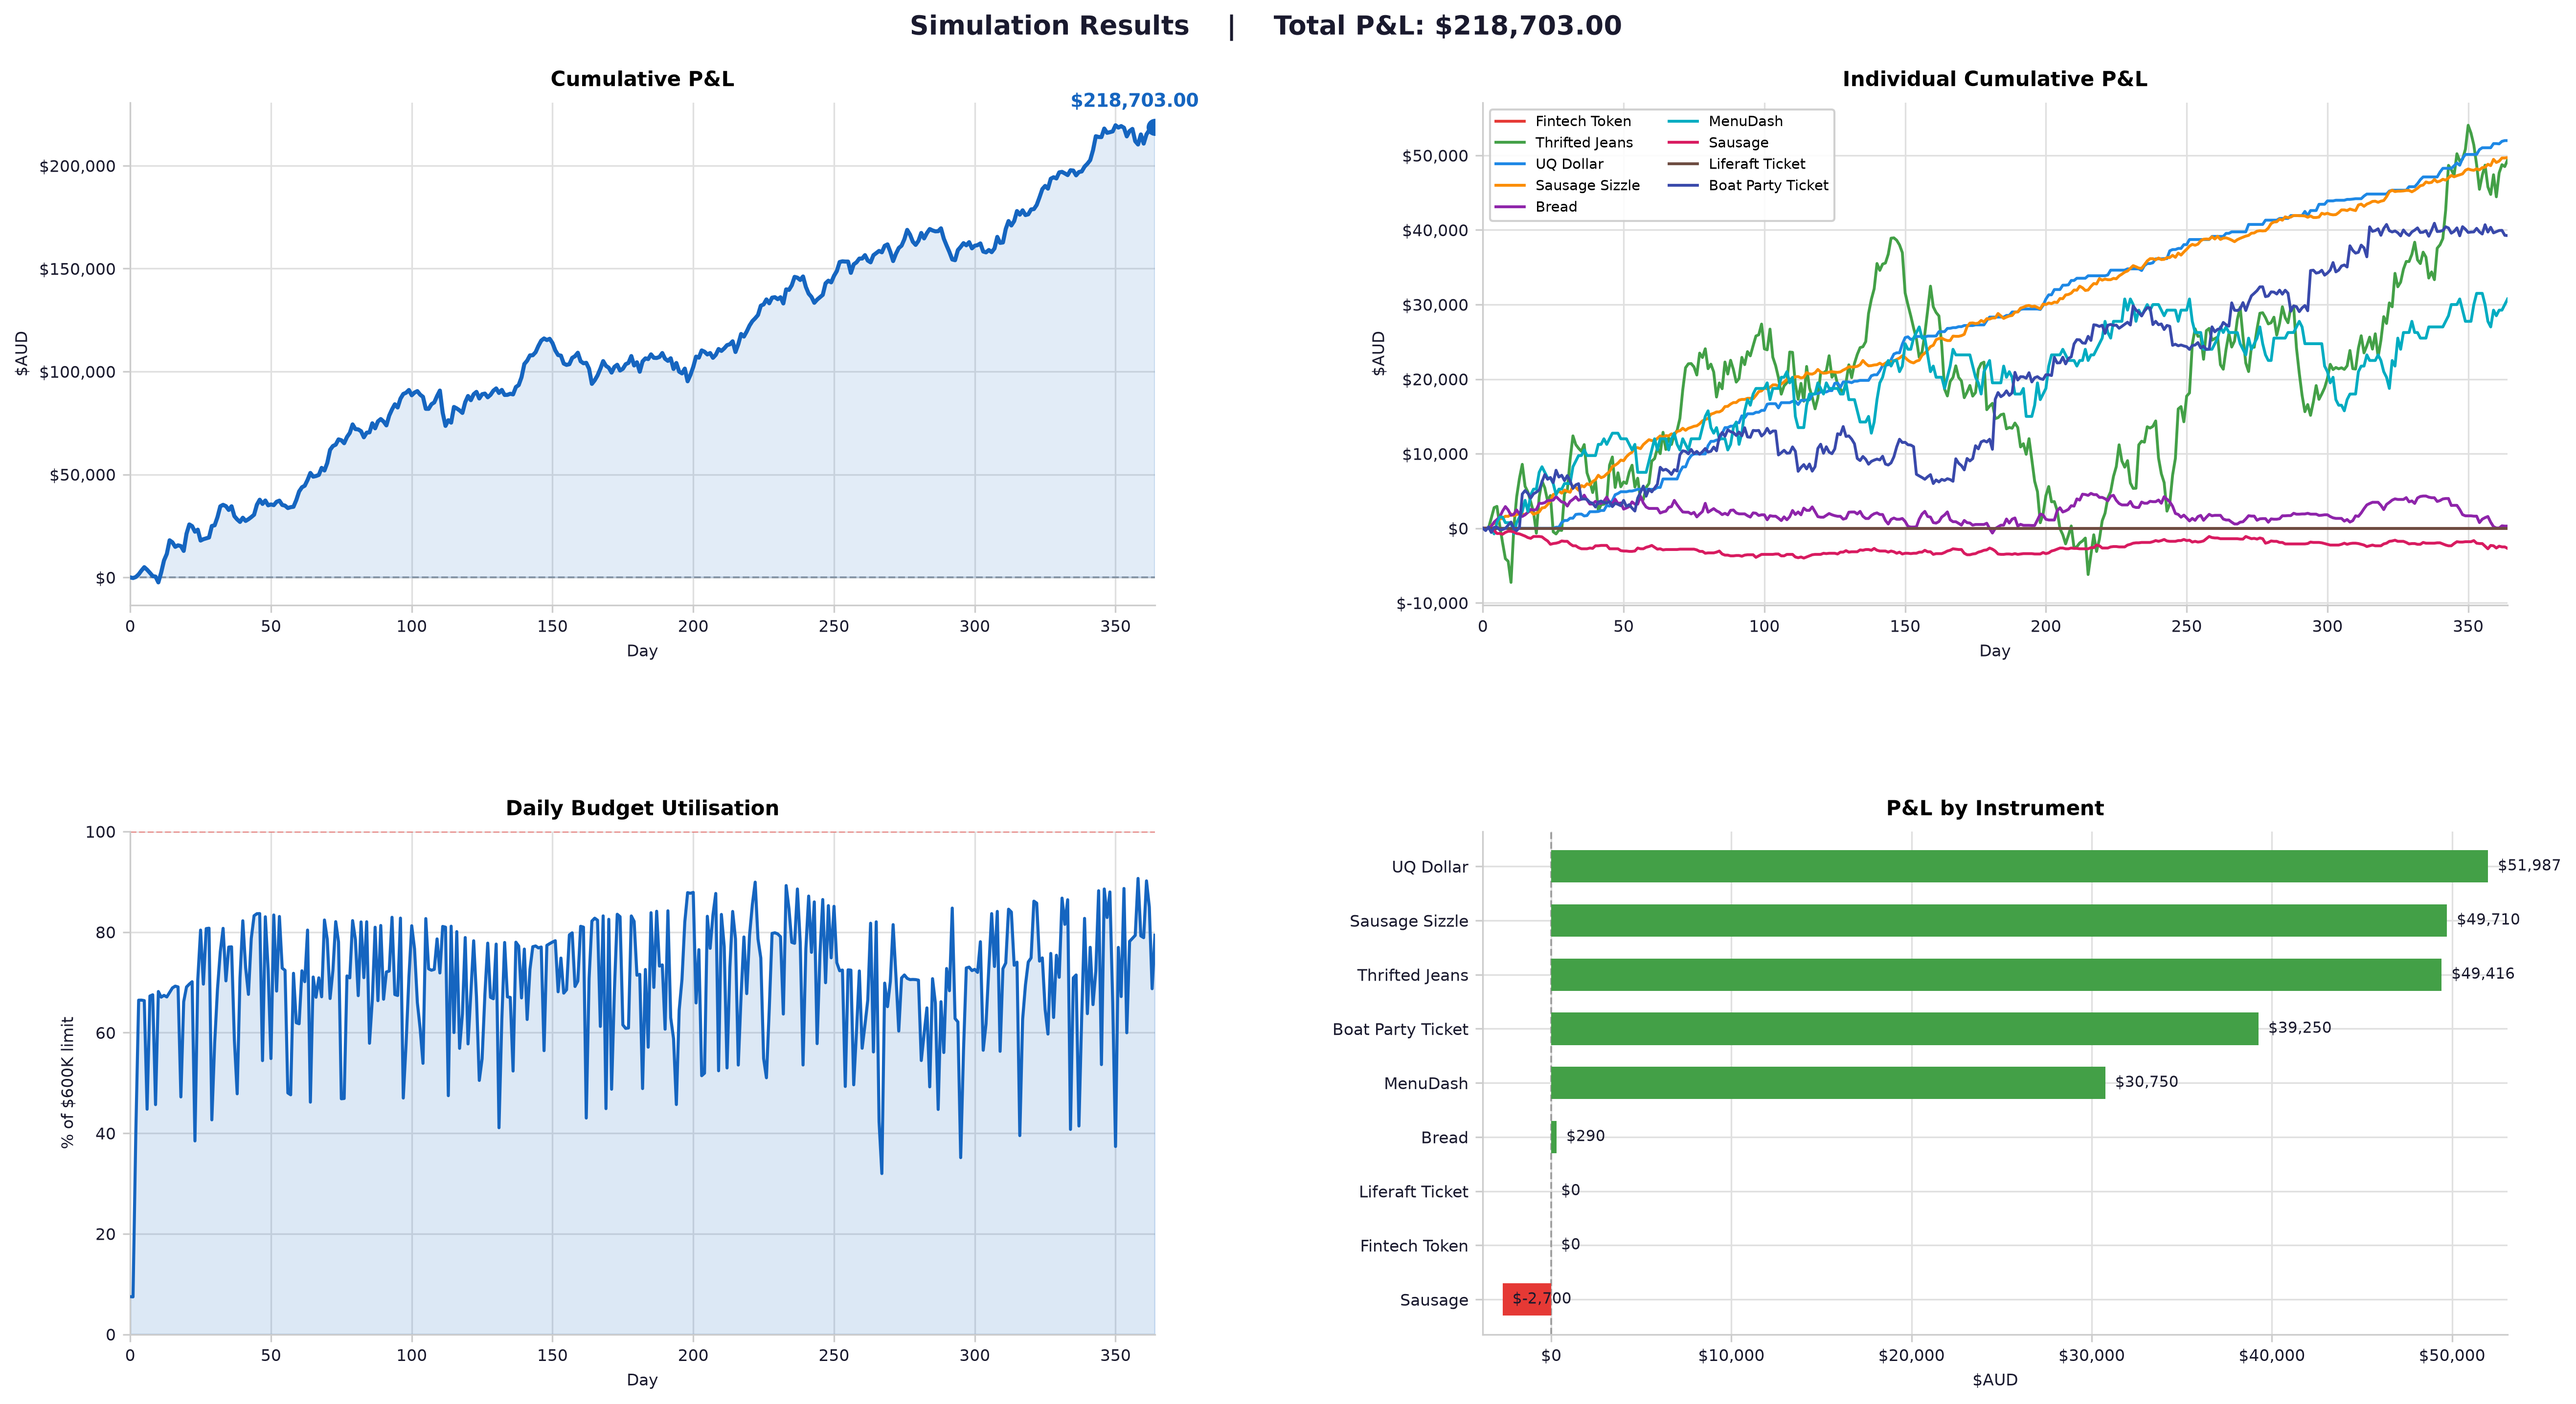
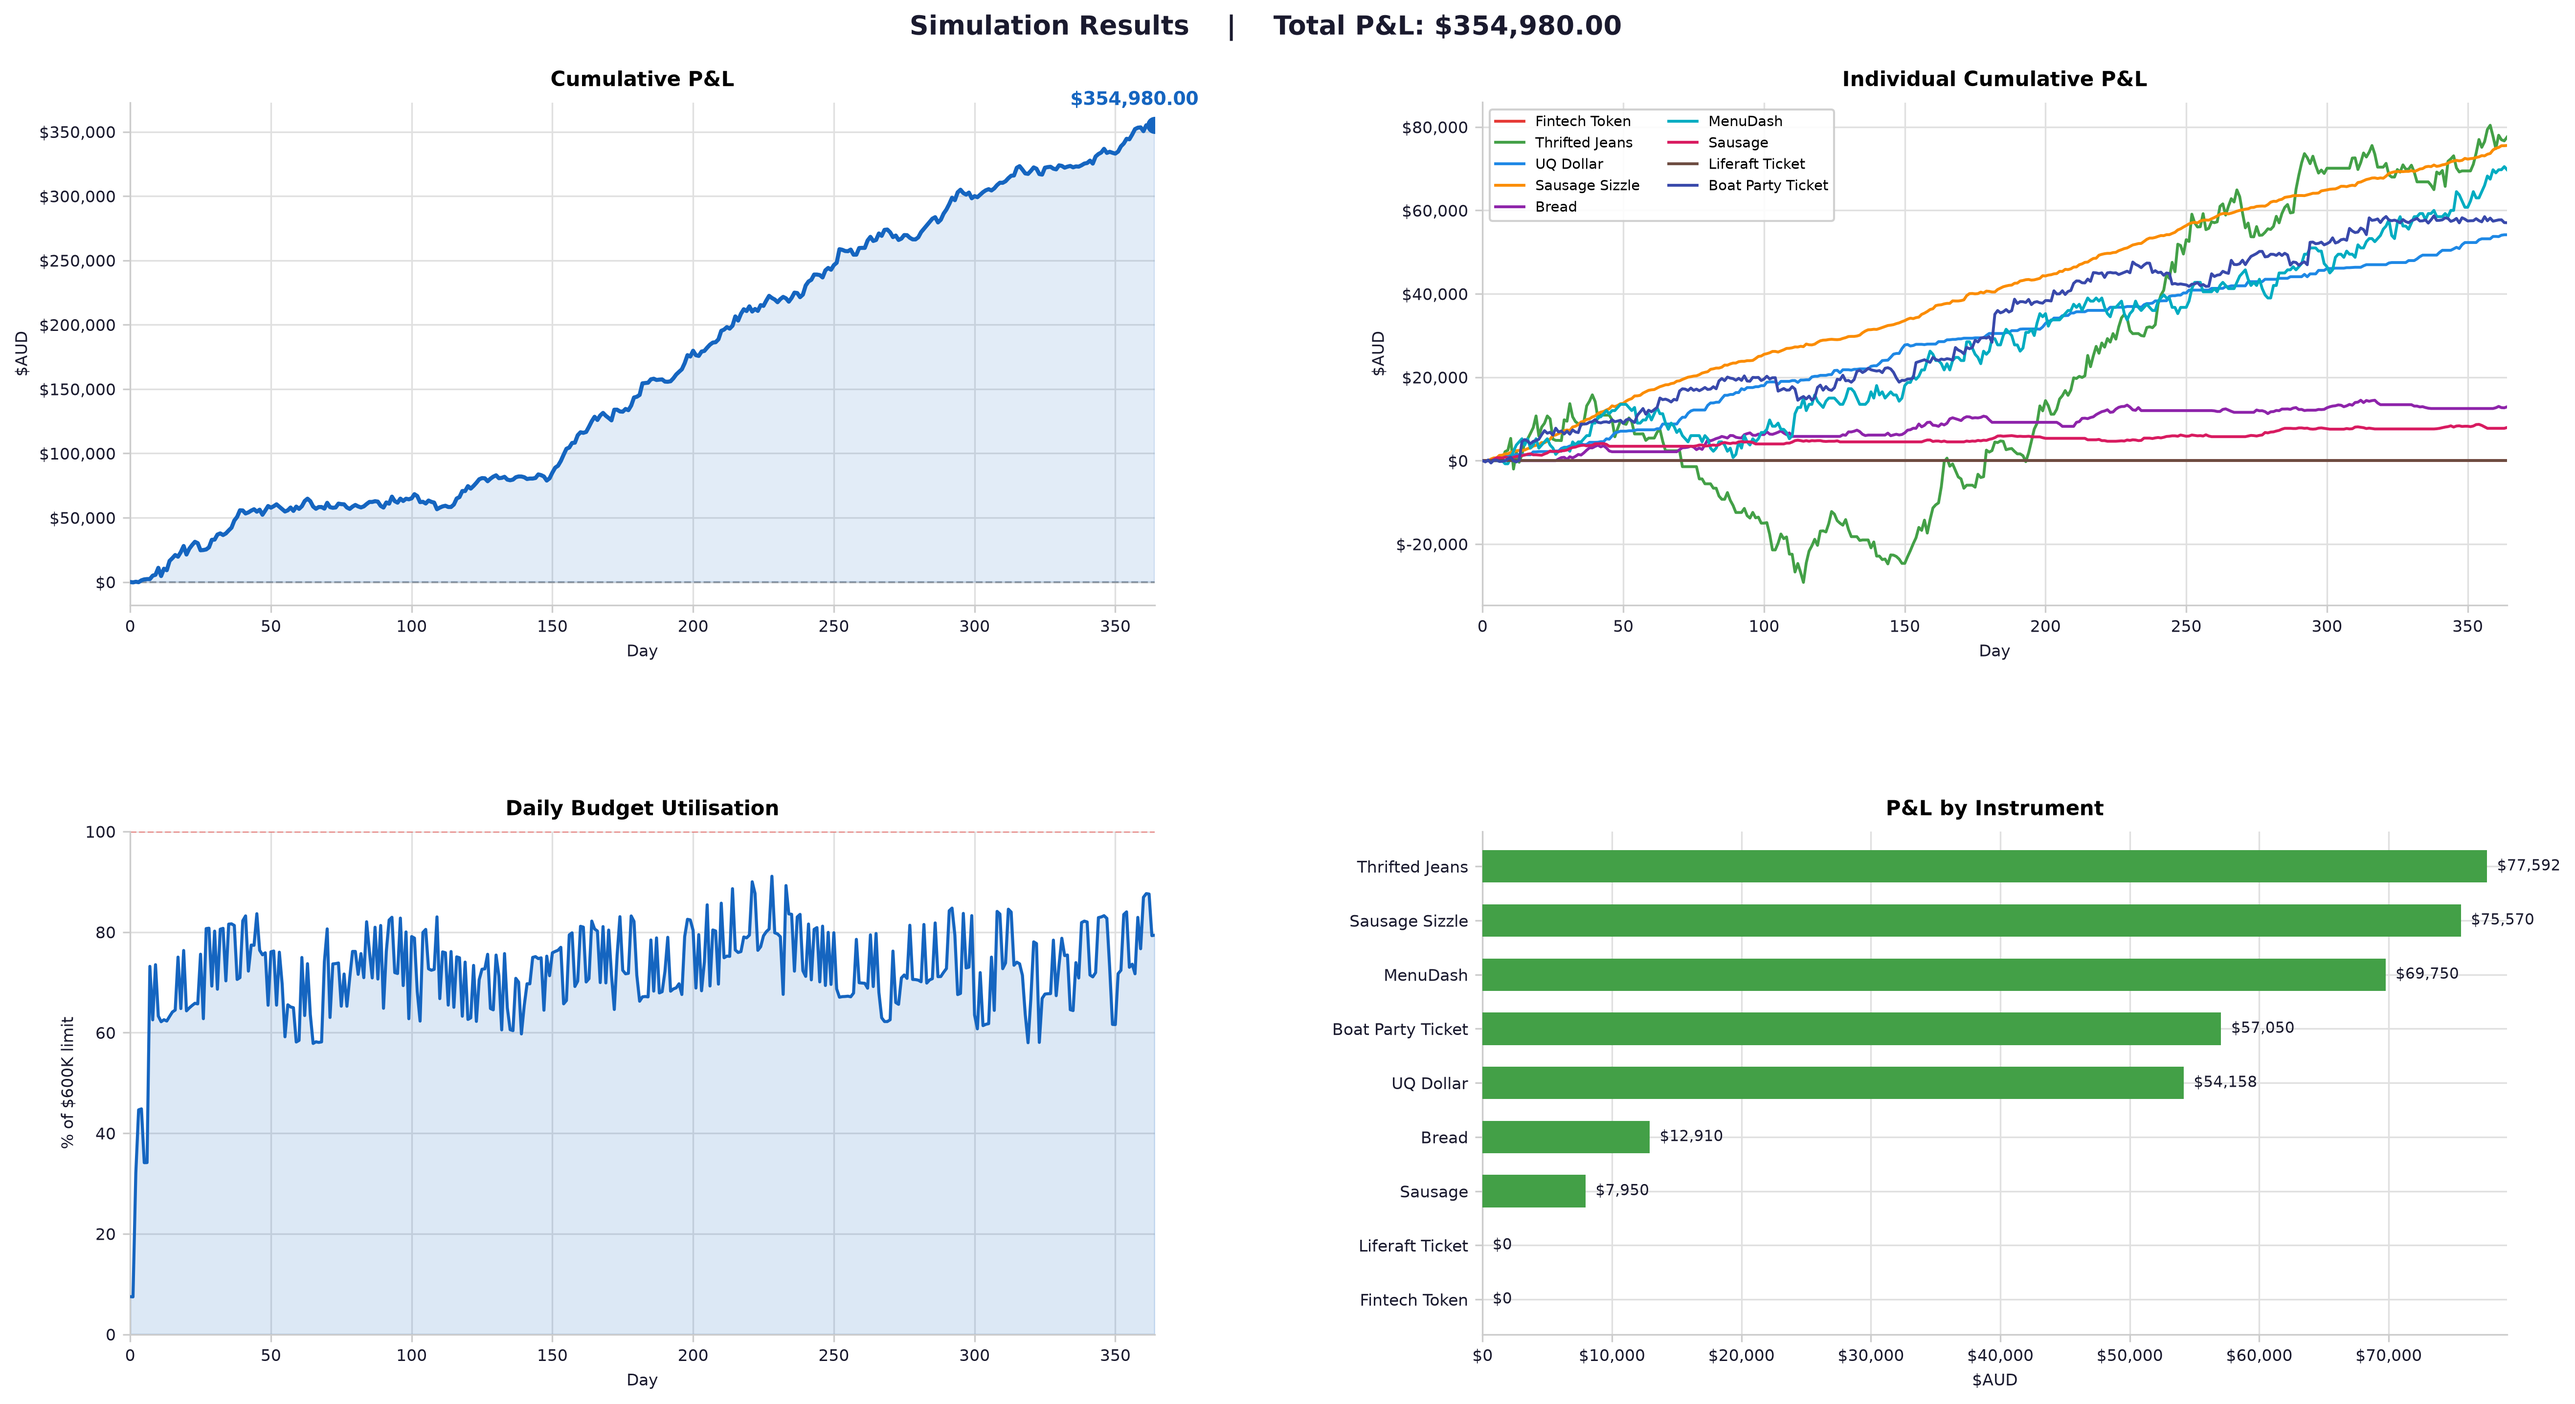
Final Changes

diff --git a/trader_interface/algorithm.py b/trader_interface/algorithm.py
@@ -1,10 +1,10 @@
 import numpy as np
+import pandas as pd
 
 ## Constants
 
 # UQ
 UQ = "UQ Dollar"
-UQ_WAIT = 20
 UQ_AVG = 100
 UQ_SAFETY_MARGIN = 0.002
 
@@ -13,19 +13,20 @@ FT = "Fintech Token"
 
 # Thriften Jeans
 TJ = "Thrifted Jeans"
+TJ_SAFETY_MARGIN = 0.005
 
 # Boat Party Ticket
 BPT = "Boat Party Ticket"
 
 # Sausage Sizzle
 SS = "Sausage Sizzle"
-SIZZLE_SAFETY_MARGIN = 0.002 # 1% Increase
+SIZZLE_SAFETY_MARGIN = 0
 
 # Bread
 B = "Bread"
-
 # Sausage
 S = "Sausage"
+BS_SAFETY_MARGIN = 0
 
 # MenuDash
 MD = "MenuDash"
@@ -72,31 +73,32 @@ class Algorithm():
         for ins in trade_instruments:
             print(f"{ins}: ${self.get_current_price(ins)}")
 
+        # Create data frame to be used for EMAs
+        df = pd.DataFrame(self.data)
+
         #######################################################################
         # UQ Dollar
-        if self.day > UQ_WAIT:
-            if self.data[UQ][-1]/UQ_AVG > 1 + UQ_SAFETY_MARGIN:
-                desiredPositions[UQ] = -positionLimits[UQ]
-            elif self.data[UQ][-1]/UQ_AVG < 1 - UQ_SAFETY_MARGIN:
-                desiredPositions[UQ] = positionLimits[UQ]
+        if self.data[UQ][-1]/UQ_AVG > 1 + UQ_SAFETY_MARGIN:
+            desiredPositions[UQ] = -positionLimits[UQ]
+        elif self.data[UQ][-1]/UQ_AVG < 1 - UQ_SAFETY_MARGIN:
+            desiredPositions[UQ] = positionLimits[UQ]
 
         # Fintech Token
 
-        # Thrifted Jeans
-        if self.day >= 2:
-            for ins in trade_instruments:
-                # if price has gone down, buy
-                todays_price = self.data[TJ][-1]
-                yesterdays_price = self.data[TJ][-2]
-                if yesterdays_price > todays_price:
-                    desiredPositions[TJ] = positionLimits[TJ]
-                else: # else, short
-                    desiredPositions[TJ] = -positionLimits[TJ]
+        # Thrifted Jeans (Most volatility)
+        if self.day >= 7:
+            # if price has gone down, buy
+            df['TJ_EMA_8'] = df[TJ].ewm(span=8, adjust=False).mean()
+            df['TJ_EMA_5'] = df[TJ].ewm(span=5, adjust=False).mean()
+            if df['TJ_EMA_5'].iloc[-1] / df['TJ_EMA_8'].iloc[-1] > 1 + TJ_SAFETY_MARGIN:
+                desiredPositions[TJ] = positionLimits[TJ]
+            elif df['TJ_EMA_5'].iloc[-1] / df['TJ_EMA_8'].iloc[-1] < 1 - TJ_SAFETY_MARGIN:
+                desiredPositions[TJ] = -positionLimits[TJ]
 
-        # Boat Party Ticket
-        if self.day % 365 <= 30:
+        # Boat Party Ticket (Hard coded based of timeline of uni year)
+        if self.day % 365 <= 50:
             desiredPositions[BPT] = positionLimits[BPT]
-        elif 30 < self.day % 365 <= 130:
+        elif 30 < self.day % 365 <= 160:
             desiredPositions[BPT] = -positionLimits[BPT]
         elif 130 < self.day % 365 <= 190:
             desiredPositions[BPT] = positionLimits[BPT]
@@ -109,32 +111,38 @@ class Algorithm():
         if self.day >= 2:
             bread_change = self.data[B][-1] / self.data[B][-2]
             sausage_change = self.data[S][-1] / self.data[S][-2]
-            menu_dash_change = self.data[MD][-1] / self.data[MD][-2]
-
-            avg_change = (bread_change + sausage_change + menu_dash_change) / 3
+            avg_change = (bread_change + sausage_change) / 2
             
             sausage_sizzle_change = self.data[SS][-1] / self.data[SS][-2]
-            if sausage_sizzle_change > avg_change:
+            if avg_change < 1:
                 desiredPositions[SS] = -positionLimits[SS]
             else:
                 desiredPositions[SS] = positionLimits[SS]
 
-            # Bread
-            if bread_change > sausage_sizzle_change + SIZZLE_SAFETY_MARGIN:
-                desiredPositions[B] = -positionLimits[B]
-            elif bread_change < sausage_sizzle_change - SIZZLE_SAFETY_MARGIN:
+            # Bread and Sausage
+            df['B_EMA_8'] = df[B].ewm(span=8, adjust=False).mean()
+            df['B_EMA_5'] = df[B].ewm(span=5, adjust=False).mean()
+            df['S_EMA_8'] = df[S].ewm(span=8, adjust=False).mean()
+            df['S_EMA_5'] = df[S].ewm(span=5, adjust=False).mean()
+
+            if df['B_EMA_5'].iloc[-1] / df['B_EMA_8'].iloc[-1] > 1 + BS_SAFETY_MARGIN:
                 desiredPositions[B] = positionLimits[B]
+            elif df['B_EMA_5'].iloc[-1] / df['B_EMA_8'].iloc[-1] < 1 - BS_SAFETY_MARGIN:
+                desiredPositions[B] = -positionLimits[B] * 0.5
 
-            # Sausage
-            if sausage_change > sausage_sizzle_change + SIZZLE_SAFETY_MARGIN:
-                desiredPositions[S] = -positionLimits[S]
-            elif sausage_change < sausage_sizzle_change - SIZZLE_SAFETY_MARGIN:
+            if df['S_EMA_5'].iloc[-1] / df['S_EMA_8'].iloc[-1] > 1 + BS_SAFETY_MARGIN:
                 desiredPositions[S] = positionLimits[S]
+            elif df['S_EMA_5'].iloc[-1] / df['S_EMA_8'].iloc[-1] < 1 - BS_SAFETY_MARGIN:
+                desiredPositions[S] = -positionLimits[S] * 0.5
 
-            # MenuDash
-            if menu_dash_change > sausage_sizzle_change + SIZZLE_SAFETY_MARGIN:
+        # MenuDash
+        if self.day >= 7:
+            # Create exponential moving average
+            df['SS_EMA_14'] = df[SS].ewm(span=14, adjust=False).mean()
+
+            if df['SS_EMA_14'].iloc[-1] > self.data[SS][-1]:
                 desiredPositions[MD] = -positionLimits[MD]
-            elif menu_dash_change < sausage_sizzle_change - SIZZLE_SAFETY_MARGIN:
+            else:
                 desiredPositions[MD] = positionLimits[MD]
 
         # Liferaft Ticket
